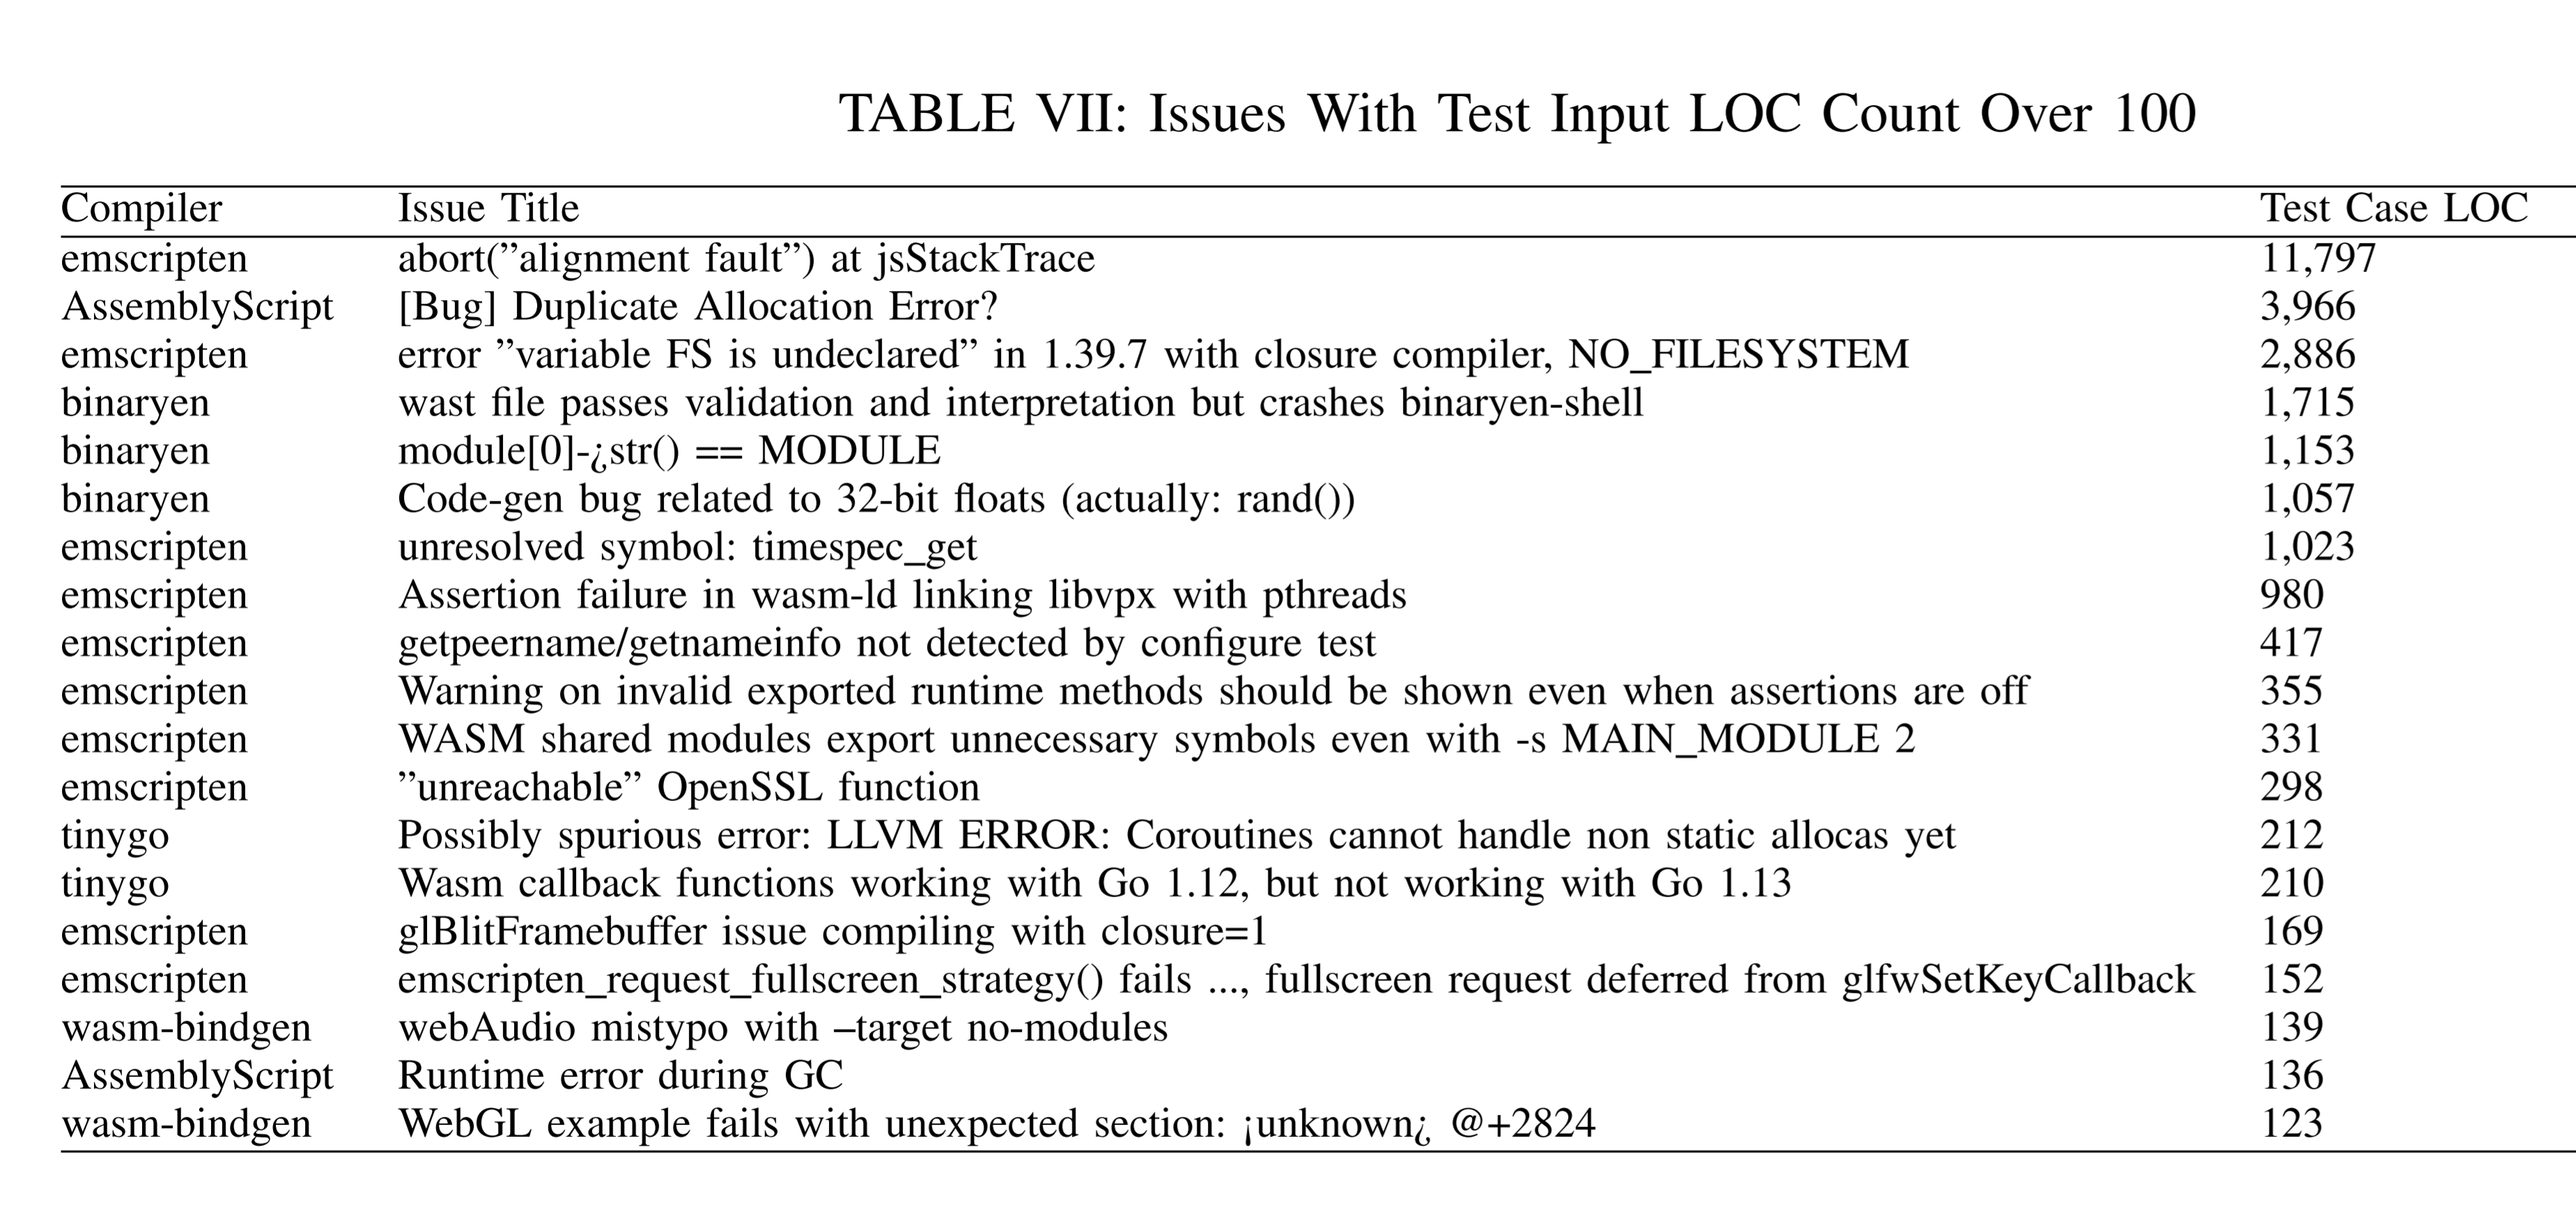
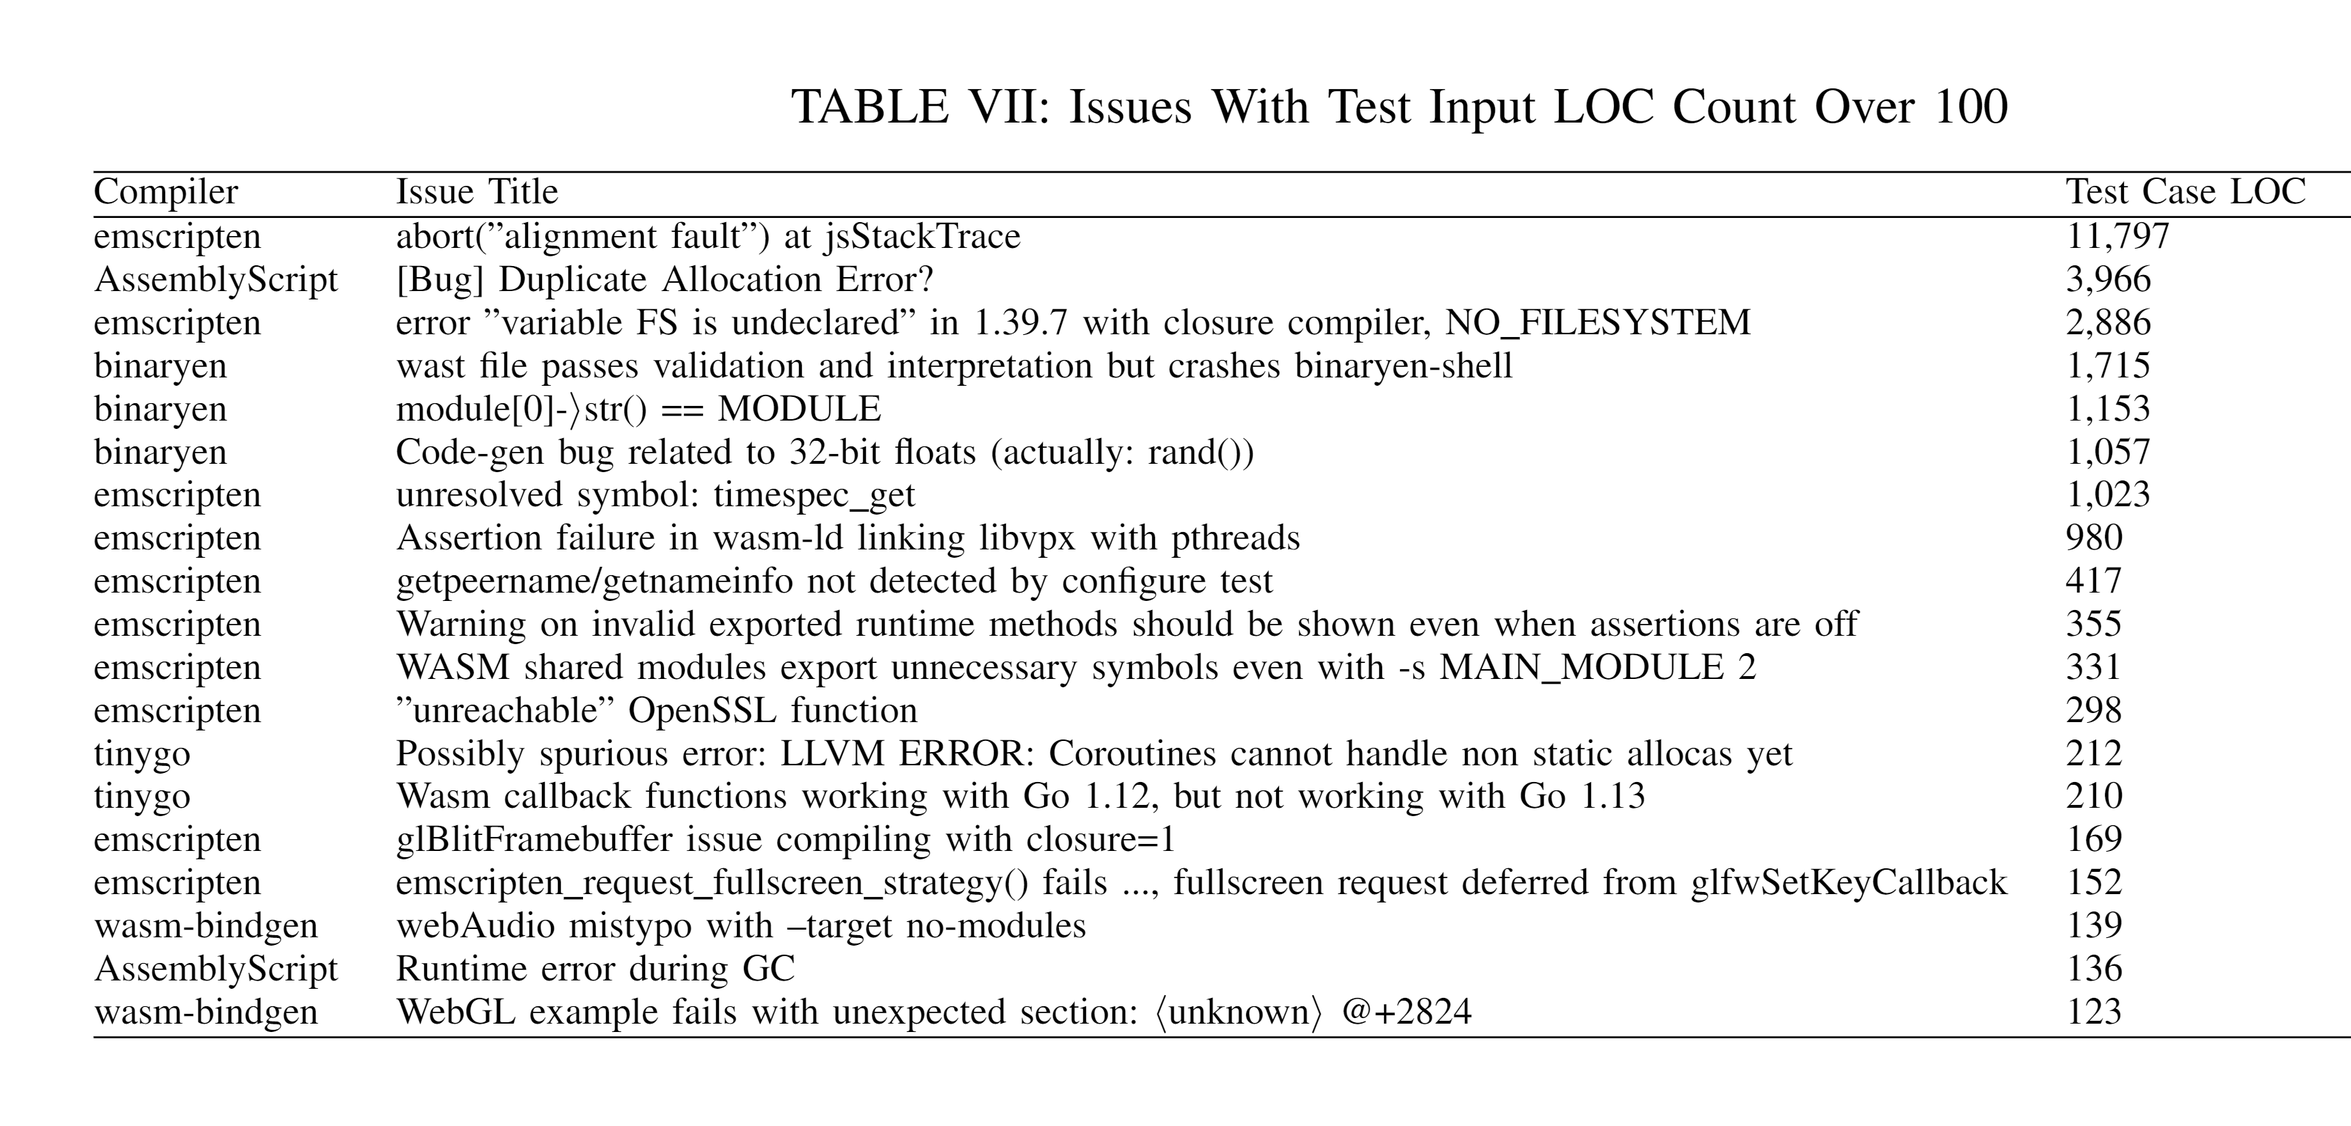
Update image and README

Changed region(s): [[0.0311, 0.1546, 1.0, 0.9586], [0.3111, 0.0618, 0.8711, 0.1237]]

diff --git a/README.md b/README.md
@@ -13,23 +13,24 @@ All of the tables used in the paper can be found in the [Tables](https://github.
 Here we provide some of the statistics that are used to create the figures in the paper.
 
 ### Statistics For Figure 2
-![Statistics For Figure 2](https://github.com/wasm-compiler-bugs/wasm-compiler-bugs.github.io/raw/master/Tables/Statistics-Of-WebAssembly-Compilers-In-The-Wild.PNG)
+<img src="https://github.com/wasm-compiler-bugs/wasm-compiler-bugs.github.io/raw/master/Tables/Statistics-Of-WebAssembly-Compilers-In-The-Wild.PNG" width="500" alt="Statistics For Figure 2" >
+
 
 ###  Statistics For Figure 4
-![Statistics For Figure 4](https://github.com/wasm-compiler-bugs/wasm-compiler-bugs.github.io/raw/master/Tables/Statistics-of-Lifecycle-of-Bugs-In-Days.PNG)
+<img src="https://github.com/wasm-compiler-bugs/wasm-compiler-bugs.github.io/raw/master/Tables/Statistics-of-Lifecycle-of-Bugs-In-Days.PNG" alt="Statistics For Figure 4" width="500">
 
 ### Statistics For Figure 12
-![Statistics For Figure 12](https://github.com/wasm-compiler-bugs/wasm-compiler-bugs.github.io/raw/master/Tables/Statistics-For-Figure-12.PNG)
+<img src="https://github.com/wasm-compiler-bugs/wasm-compiler-bugs.github.io/raw/master/Tables/Statistics-For-Figure-12.PNG" alt="Statistics For Figure 12" width="500">
 
 ### Statistics For Figure 14
-![Statistics For Figure 14](https://github.com/wasm-compiler-bugs/wasm-compiler-bugs.github.io/raw/master/Tables/Statistics-of-Test-input-Lines-of-Code.PNG)
+<img src="https://github.com/wasm-compiler-bugs/wasm-compiler-bugs.github.io/raw/master/Tables/Statistics-of-Test-input-Lines-of-Code.PNG" alt="Statistics For Figure 14" width="500">
 
 ### Statistics For Figure 15
-![Statistics For Figure 15](https://github.com/wasm-compiler-bugs/wasm-compiler-bugs.github.io/raw/master/Tables/Statistics-of-Lines-of-Code-For-Bug-Fixes.PNG)
+<img src="https://github.com/wasm-compiler-bugs/wasm-compiler-bugs.github.io/raw/master/Tables/Statistics-of-Lines-of-Code-For-Bug-Fixes.PNG" alt="Statistics For Figure 15" width="500">
 
 ### Issues With Test Case LOC Over 100
-![Issues With Test Case LOC Over 100](https://github.com/wasm-compiler-bugs/wasm-compiler-bugs.github.io/raw/master/Tables/Issues-With-Test-Input-LOC-Count-Over-100.PNG)
+<img src="https://github.com/wasm-compiler-bugs/wasm-compiler-bugs.github.io/raw/master/Tables/Issues-With-Test-Input-LOC-Count-Over-100.PNG" alt="Issues With Test Case LOC Over 100" width="500">
 
 ### Top 10 Buggy Files In Compilers
-![Top 10 Buggy Files In Compilers](https://github.com/wasm-compiler-bugs/wasm-compiler-bugs.github.io/raw/master/Tables/Top-10-Buggy-Files.PNG)
+<img src="https://github.com/wasm-compiler-bugs/wasm-compiler-bugs.github.io/raw/master/Tables/Top-10-Buggy-Files.PNG" alt="Top 10 Buggy Files In Compilers" width="500">
 
